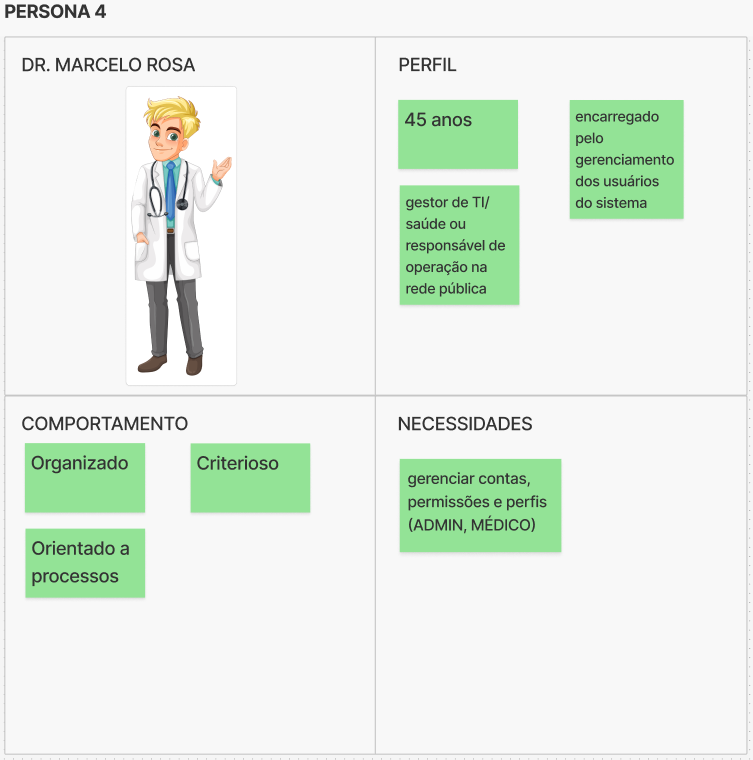
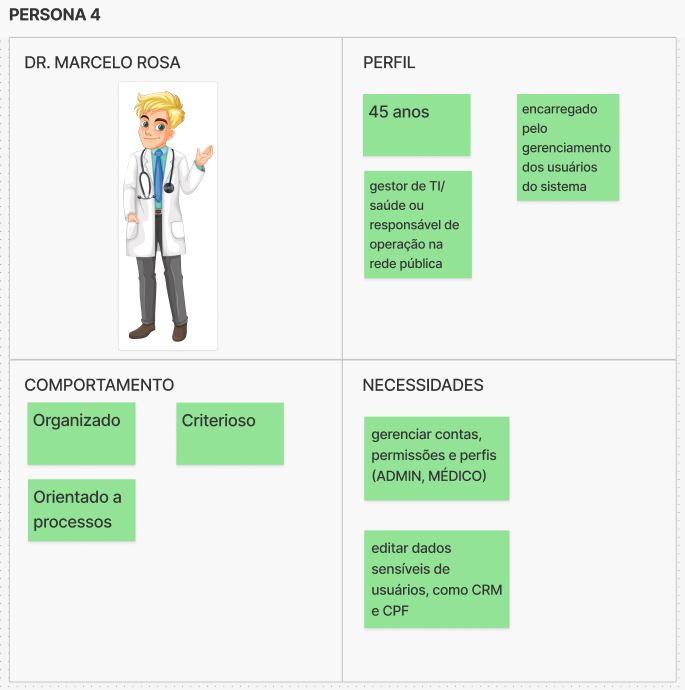
docs: correção da lean inception persona admin

diff --git a/docs/produto/lean-inception.md b/docs/produto/lean-inception.md
@@ -108,6 +108,8 @@ Os objetivos consolidados por cluster são apresentados na Figura 2.
 
 ## Personas
 
+As personas 2 e 3 não foram aprovadas pelo PO para o momento. Versões futuras podem contemplar essas personas.
+
 ### Persona 1 - Dra Meridite Cinza
 
 **Perfil:** 40 anos, médica da família, casada, 4 filhos, sobrecarregada.
@@ -129,49 +131,7 @@ A representação visual da Persona 1 está na Figura 3.
 	<p><strong>Fonte:</strong> Elaboração própria, 2026.</p>
 </div>
 
-### Persona 2 - Derik Carneiro
-
-**Perfil:** técnico de enfermagem, 35 anos, casado, frustrado.
-
-**Comportamento:** responsável, proativo, analítico, curioso.
-
-**Necessidades:**
-
-- agilizar o processo de triagem na coleta das imagens de retina;
-- ter direcionamento claro do próximo passo da triagem;
-- adquirir conhecimento para avaliar sinais de problemas oculares;
-- ter apoio para lidar com a alta demanda de pacientes.
-
-A representação visual da Persona 2 está na Figura 4.
-
-<div align="center">
-	<p><strong>Figura 4.</strong> Persona 2 (Derik Carneiro).</p>
-	<img src="https://github.com/fga-eps-mds/2026-1-RetinaScan-Doc/blob/main/docs/assets/imagens/lean-inception/Persona2.PNG?raw=true" alt="Persona 2"/>
-	<p><strong>Fonte:</strong> Elaboração própria, 2026.</p>
-</div>
-
-### Persona 3 - Leon Silva
-
-**Perfil:** 65 anos, diabético, 2 filhas, sociável, pratica exercícios.
-
-**Comportamento:** impaciente, matutino, teimoso, ativo, metódico.
-
-**Necessidades:**
-
-- descobrir se possui algum problema de saúde;
-- obter o tratamento apropriado com rapidez;
-- ser atendido com agilidade;
-- receber orientação clara caso haja problema de saúde.
-
-A representação visual da Persona 3 está na Figura 5.
-
-<div align="center">
-	<p><strong>Figura 5.</strong> Persona 3 (Leon Silva).</p>
-	<img src="https://github.com/fga-eps-mds/2026-1-RetinaScan-Doc/blob/main/docs/assets/imagens/lean-inception/Persona3.PNG?raw=true" alt="Persona 3"/>
-	<p><strong>Fonte:</strong> Elaboração própria, 2026.</p>
-</div>
-
-### Persona 4 - Administrador do Sistema (ADMIN)
+### Persona 4 - Dr. Marcelo Rosa (ADMIN)
 
 **Perfil:** 45 anos, gestor de TI/saúde ou responsável de operação na rede pública, encarregado pelo gerenciamento dos usuários do sistema.
 
@@ -180,6 +140,7 @@ A representação visual da Persona 3 está na Figura 5.
 **Necessidades:**
 
 - gerenciar contas, permissões e perfis (ADMIN, MÉDICO);
+- editar dados sensíveis de usuários, como CRM e CPF.
 
 <div align="center">
     <p><strong>Figura 6.</strong> Persona 4 (Administrador do Sistema).</p>
@@ -188,6 +149,8 @@ A representação visual da Persona 3 está na Figura 5.
 </div>
 
 ## Jornada do Usuário
+
+As jornadas das personas 2 e 3 foram retiradas do escopo atual do projeto.
 
 ### Jornada 1 - Triagem e Encaminhamento
 
@@ -316,26 +279,26 @@ A priorização resultante da revisão técnica, de negócio e de UX é apresent
 
 Com base no sequenciador, os incrementos foram organizados em 5 ondas:
 
-### Incremento 1 - Acesso e segurança básica
+### Onda 1 - Acesso e segurança básica
 
 - gerenciamento de usuários pelo ADMIN;
 - login do profissional da saúde;
 - controle de acesso por perfil.
 
-### Incremento 2 - Cadastro e processamento inicial
+### Onda 2 - Cadastro e processamento inicial
 
 - registrar log de acesso;
 - cadastrar exame;
 - pré-processamento de imagem;
 - upload de foto do exame.
 
-### Incremento 3 - Núcleo de IA
+### Onda 3 - Núcleo de IA
 
 - modelo treinado com alta acurácia (90%);
 - resultado da avaliação da IA;
 - botão de "Reportar Erro da IA".
 
-### Incremento 4 - Histórico e busca (MVP)
+### Onda 4 - Histórico e busca (MVP)
 
 - histórico de análises;
 - busca de relatório;
@@ -345,7 +308,7 @@ Com base no sequenciador, os incrementos foram organizados em 5 ondas:
 
 **Issues relacionadas ao MVP:** [#3](https://github.com/fga-eps-mds/2026-1-RetinaScan-Doc/issues/3), [#13](https://github.com/fga-eps-mds/2026-1-RetinaScan-Doc/issues/13), [#14](https://github.com/fga-eps-mds/2026-1-RetinaScan-Doc/issues/14), [#15](https://github.com/fga-eps-mds/2026-1-RetinaScan-Doc/issues/15), [#20](https://github.com/fga-eps-mds/2026-1-RetinaScan-Doc/issues/20), [#21](https://github.com/fga-eps-mds/2026-1-RetinaScan-Doc/issues/21), [#16](https://github.com/fga-eps-mds/2026-1-RetinaScan-Doc/issues/16), [#17](https://github.com/fga-eps-mds/2026-1-RetinaScan-Doc/issues/17), [#18](https://github.com/fga-eps-mds/2026-1-RetinaScan-Doc/issues/18)
 
-### Incremento 5 - Evoluções pós-MVP
+### Onda 5 - Evoluções pós-MVP
 
 - dashboard com métricas das análises anteriores;
 - download de relatório;
@@ -361,7 +324,7 @@ Conforme a Figura 9, o sequenciador define os incrementos e delimita o ponto de 
 
 ## Canvas MVP
 
-O Canvas MVP preenchido está disponível em [docs/produto/mvp-canvas.md](mvp-canvas.md).
+O Canvas MVP preenchido está disponível em [Canvas MVP](mvp-canvas.md).
 
 
 ## Histórico de Versão
